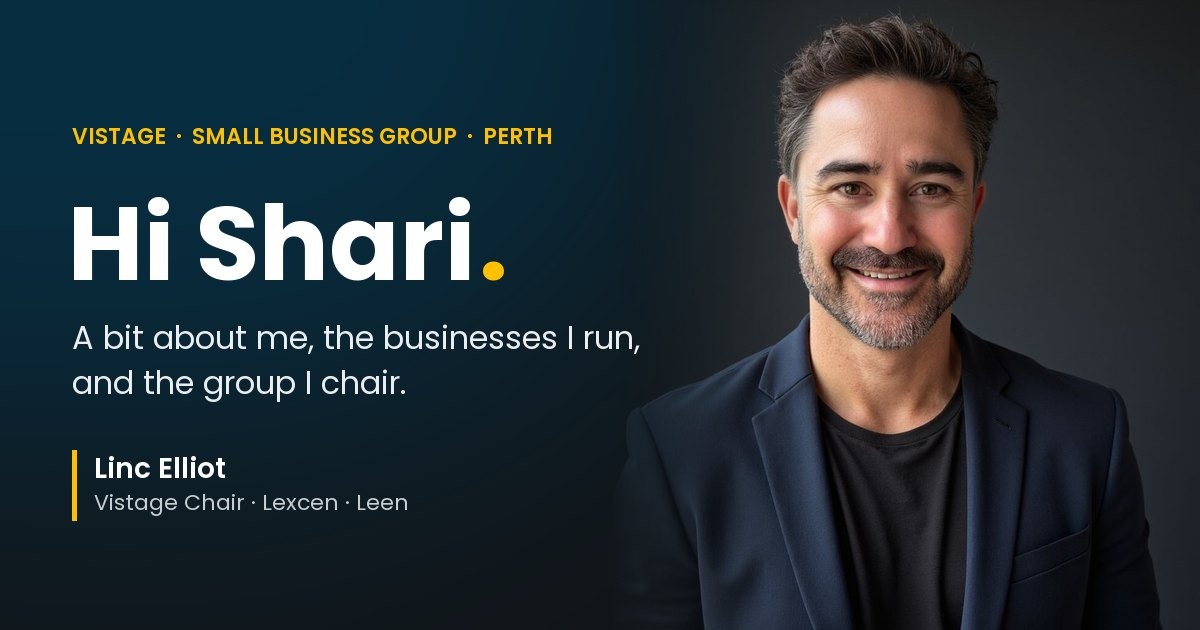
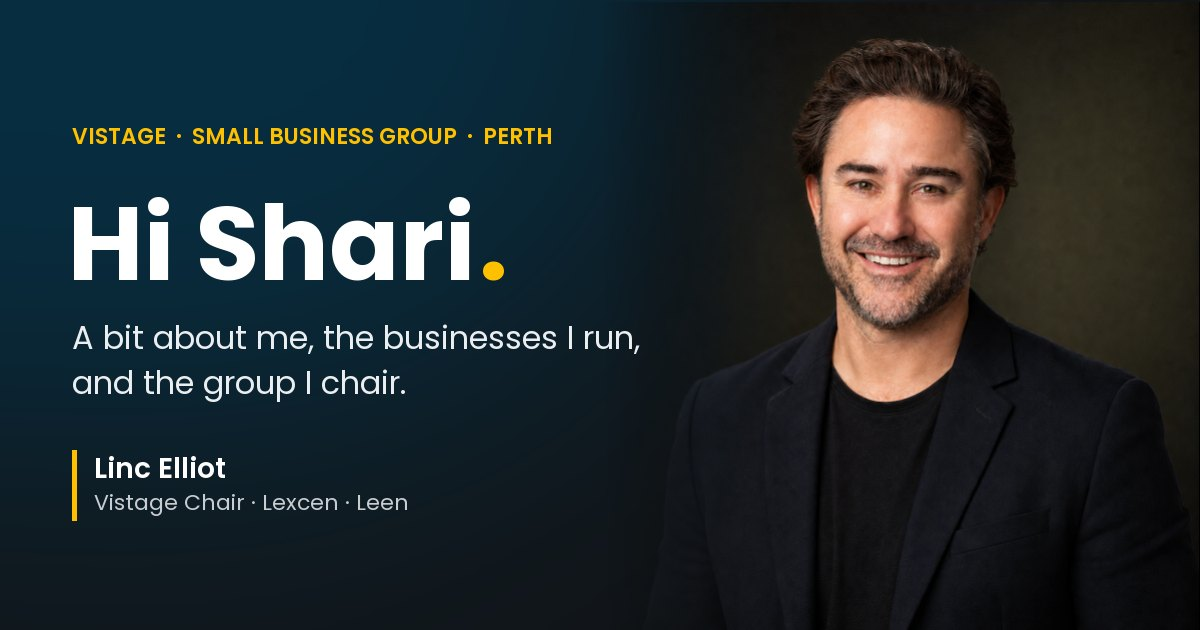
Swap headshot, add headroom so the fade clears Linc's head

Changed region(s): [[0.5242, 0.0, 1.0, 1.0]]

diff --git a/index.html b/index.html
@@ -63,7 +63,7 @@ section{padding:88px 0}
 
 /* ---------- hero ---------- */
 .hero{position:relative;background:#111417;color:#fff;overflow:hidden}
-.hero::before{content:"";position:absolute;inset:0;background:radial-gradient(900px 520px at 8% 0%,rgba(0,63,94,.55),rgba(0,63,94,0) 70%),radial-gradient(520px 520px at 76% 72%,rgba(44,50,56,.75),rgba(44,50,56,0) 70%),radial-gradient(500px 300px at 30% 110%,rgba(255,192,0,.08),rgba(255,192,0,0) 70%);pointer-events:none}
+.hero::before{content:"";position:absolute;inset:0;background:radial-gradient(900px 520px at 8% 0%,rgba(0,63,94,.55),rgba(0,63,94,0) 70%),radial-gradient(520px 520px at 76% 70%,rgba(38,35,26,.7),rgba(38,35,26,0) 70%),radial-gradient(500px 300px at 30% 110%,rgba(255,192,0,.08),rgba(255,192,0,0) 70%);pointer-events:none}
 .hero > .wrap{position:relative;display:grid;grid-template-columns:1.12fr .88fr;gap:40px;align-items:end;min-height:min(780px,100vh);padding-top:110px}
 .hero .txt{padding-bottom:84px;position:relative;z-index:2}
 .hero h1{color:#fff;font-size:clamp(52px,8vw,96px);font-weight:800;letter-spacing:-.025em;margin:14px 0 18px}
@@ -74,7 +74,7 @@ section{padding:88px 0}
 .hero .sig span{display:block;font-size:15px;color:rgba(255,255,255,.78);margin-top:2px}
 .ctas{display:flex;gap:12px;flex-wrap:wrap}
 .hero .photo{position:relative;align-self:end;height:100%;display:flex;align-items:flex-end;justify-content:center}
-.hero .photo img{width:100%;max-width:560px;height:auto;-webkit-mask-image:linear-gradient(to bottom,transparent 0,#000 30%),linear-gradient(to right,transparent 0,#000 24%,#000 76%,transparent 100%);-webkit-mask-composite:source-in;mask-image:linear-gradient(to bottom,transparent 0,#000 30%),linear-gradient(to right,transparent 0,#000 24%,#000 76%,transparent 100%);mask-composite:intersect}
+.hero .photo img{width:100%;max-width:520px;height:auto;-webkit-mask-image:linear-gradient(to bottom,transparent 0,#000 15%),linear-gradient(to right,transparent 0,#000 15%,#000 85%,transparent 100%);-webkit-mask-composite:source-in;mask-image:linear-gradient(to bottom,transparent 0,#000 15%),linear-gradient(to right,transparent 0,#000 15%,#000 85%,transparent 100%);mask-composite:intersect}
 
 /* ---------- three businesses ---------- */
 .biz .head{max-width:780px}
@@ -179,7 +179,7 @@ section{padding:88px 0}
 .contact h2{color:#fff}
 .contact p{color:rgba(255,255,255,.88);font-size:18px;max-width:640px;margin:0 0 12px}
 .contact .mini{display:flex;align-items:center;gap:16px;margin-top:24px}
-.contact .mini img{width:68px;height:68px;border-radius:50%;object-fit:cover;object-position:center 20%;border:2px solid rgba(255,192,0,.7)}
+.contact .mini img{width:68px;height:68px;border-radius:50%;object-fit:cover;object-position:center 32%;border:2px solid rgba(255,192,0,.7)}
 .contact .mini b{display:block;font-size:18px}
 .contact .mini span{display:block;font-size:14.5px;color:rgba(255,255,255,.75)}
 .cbtns{display:flex;flex-direction:column;gap:12px;min-width:290px}
@@ -204,7 +204,7 @@ footer a{color:rgba(255,255,255,.8)}
   .quick a{padding:10px}
   .hero > .wrap{grid-template-columns:1fr;min-height:0;padding-top:80px;gap:0}
   .hero .photo{order:-1;height:auto}
-  .hero .photo img{max-width:340px}
+  .hero .photo img{max-width:340px;-webkit-mask-image:radial-gradient(ellipse 50% 50% at 50% 50%,#000 66%,transparent 100%);mask-image:radial-gradient(ellipse 50% 50% at 50% 50%,#000 66%,transparent 100%);-webkit-mask-composite:source-over;mask-composite:add}
   .hero .txt{padding-bottom:56px}
   .hero h1{margin-top:6px}
   .story .grid,.members .head,.you .panel,.contact .wrap{grid-template-columns:1fr;gap:32px}
@@ -291,7 +291,7 @@ footer a{color:rgba(255,255,255,.8)}
       </div>
     </div>
     <div class="photo">
-      <img src="img/linc.jpg" width="880" height="880" alt="Linc Elliot">
+      <img src="img/linc.jpg" width="630" height="758" alt="Linc Elliot">
     </div>
   </div>
 </header>
